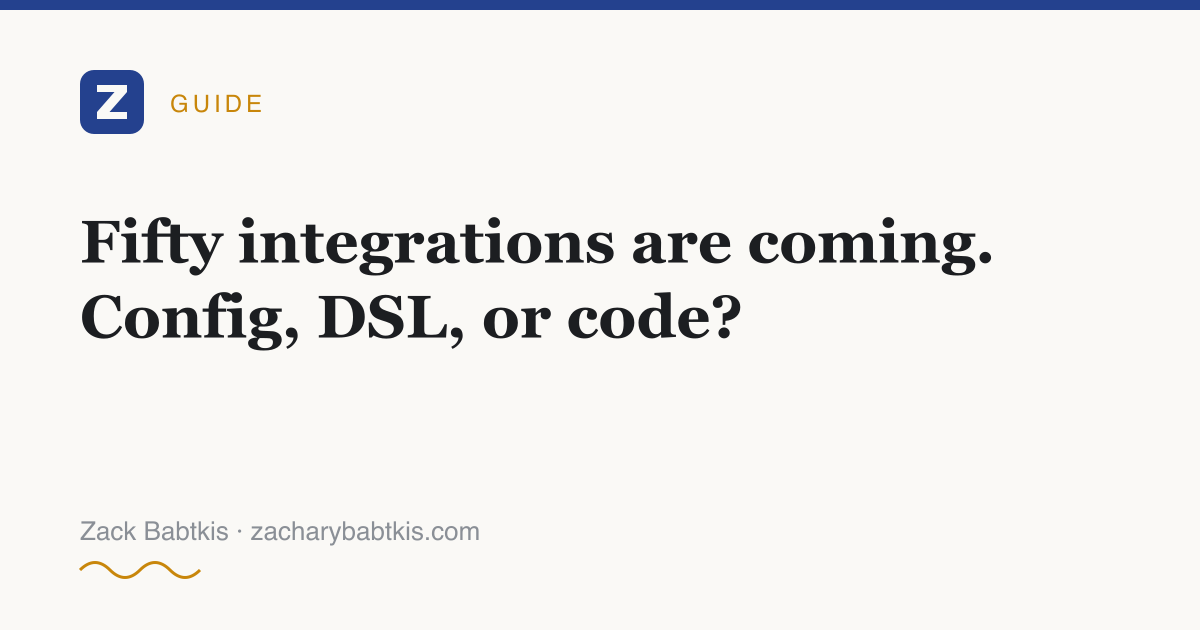
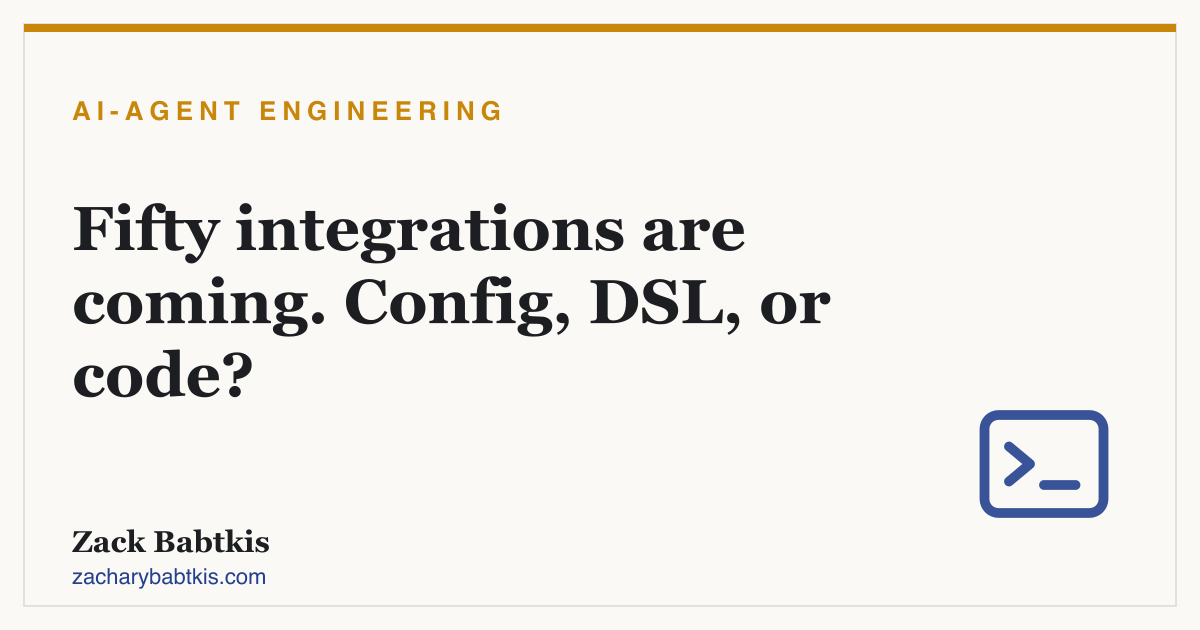
feat: branded headline cards + guide thumbnails + session-routing diagram

diff --git a/components/diagrams/session-routing.tsx b/components/diagrams/session-routing.tsx
@@ -1,0 +1,74 @@
+/**
+ * Hand-drawn SVG: why a second replica breaks MCP sessions. The session
+ * lives in replica A's memory; round-robin sends the follow-up to
+ * replica B, which has never heard of it.
+ */
+export function SessionRoutingDiagram() {
+  const ink = '#1c1e21';
+  const navy = '#24418e';
+  const amber = '#c8860a';
+  const rule = '#d8d4cb';
+  const mono = "ui-monospace, 'SF Mono', Menlo, monospace";
+
+  return (
+    <figure className="diagram">
+      <svg
+        viewBox="0 0 720 320"
+        role="img"
+        aria-label="Diagram: a client sends two requests through a load balancer. Request one reaches replica A, which holds the session. Request two is routed to replica B, which has no session, and fails with 404 session not found."
+      >
+        {/* Client */}
+        <rect x="20" y="120" width="130" height="80" rx="8" fill="none" stroke={ink} strokeWidth="1.5" />
+        <text x="85" y="155" textAnchor="middle" fontFamily={mono} fontSize="14" fill={ink}>MCP client</text>
+        <text x="85" y="177" textAnchor="middle" fontFamily={mono} fontSize="11" fill={navy}>session 4f2a</text>
+
+        {/* Load balancer */}
+        <rect x="270" y="120" width="150" height="80" rx="8" fill="none" stroke={ink} strokeWidth="1.5" />
+        <text x="345" y="150" textAnchor="middle" fontFamily={mono} fontSize="14" fill={ink}>load balancer</text>
+        <text x="345" y="172" textAnchor="middle" fontFamily={mono} fontSize="11" fill={ink} opacity="0.6">round-robin</text>
+
+        {/* Replica A */}
+        <rect x="540" y="30" width="160" height="90" rx="8" fill="none" stroke={navy} strokeWidth="1.5" />
+        <text x="620" y="58" textAnchor="middle" fontFamily={mono} fontSize="14" fill={ink}>replica A</text>
+        <text x="620" y="80" textAnchor="middle" fontFamily={mono} fontSize="11" fill={navy}>session 4f2a ✓</text>
+        <text x="620" y="98" textAnchor="middle" fontFamily={mono} fontSize="11" fill={navy}>open SSE stream</text>
+
+        {/* Replica B */}
+        <rect x="540" y="200" width="160" height="90" rx="8" fill="none" stroke={rule} strokeWidth="1.5" />
+        <text x="620" y="232" textAnchor="middle" fontFamily={mono} fontSize="14" fill={ink}>replica B</text>
+        <text x="620" y="254" textAnchor="middle" fontFamily={mono} fontSize="11" fill={ink} opacity="0.55">no session</text>
+
+        {/* client -> LB */}
+        <line x1="150" y1="160" x2="262" y2="160" stroke={ink} strokeWidth="1.5" markerEnd="url(#arrow-ink)" />
+
+        {/* LB -> A (request 1, ok) */}
+        <line x1="420" y1="140" x2="532" y2="80" stroke={navy} strokeWidth="1.5" markerEnd="url(#arrow-navy)" />
+        <text x="470" y="96" fontFamily={mono} fontSize="11" fill={navy}>request 1</text>
+
+        {/* LB -> B (request 2, fails) */}
+        <line x1="420" y1="180" x2="532" y2="240" stroke={amber} strokeWidth="1.5" strokeDasharray="6 4" markerEnd="url(#arrow-amber)" />
+        <text x="452" y="232" fontFamily={mono} fontSize="11" fill={amber}>request 2</text>
+
+        {/* failure label */}
+        <text x="620" y="312" textAnchor="middle" fontFamily={mono} fontSize="12" fill={amber}>404 &ldquo;session not found&rdquo;</text>
+
+        <defs>
+          <marker id="arrow-ink" viewBox="0 0 10 10" refX="9" refY="5" markerWidth="7" markerHeight="7" orient="auto-start-reverse">
+            <path d="M 0 0 L 10 5 L 0 10 z" fill={ink} />
+          </marker>
+          <marker id="arrow-navy" viewBox="0 0 10 10" refX="9" refY="5" markerWidth="7" markerHeight="7" orient="auto-start-reverse">
+            <path d="M 0 0 L 10 5 L 0 10 z" fill={navy} />
+          </marker>
+          <marker id="arrow-amber" viewBox="0 0 10 10" refX="9" refY="5" markerWidth="7" markerHeight="7" orient="auto-start-reverse">
+            <path d="M 0 0 L 10 5 L 0 10 z" fill={amber} />
+          </marker>
+        </defs>
+      </svg>
+      <figcaption>
+        The session lives in one process&rsquo;s memory. Round-robin
+        routing sends the follow-up request to a replica that has never
+        heard of it.
+      </figcaption>
+    </figure>
+  );
+}

diff --git a/app/globals.css b/app/globals.css
@@ -385,6 +385,75 @@ h3 {
   }
 }
 
+/* ---------- Inline diagrams ---------- */
+
+.diagram {
+  margin: var(--space-lg) 0;
+  padding: var(--space-md);
+  background: var(--paper-raised);
+  border: 1px solid var(--rule);
+  border-radius: var(--radius);
+}
+
+.diagram svg {
+  display: block;
+  width: 100%;
+  height: auto;
+}
+
+.diagram figcaption {
+  margin-top: var(--space-sm);
+  font-size: var(--text-sm);
+  color: var(--ink-soft);
+}
+
+/* ---------- Guide cards (guides index) ---------- */
+
+.guide-cards {
+  list-style: none;
+  display: grid;
+  grid-template-columns: repeat(auto-fill, minmax(19rem, 1fr));
+  gap: var(--space-md);
+  margin-top: var(--space-md);
+}
+
+.guide-cards a {
+  display: block;
+  background: var(--paper-raised);
+  border: 1px solid var(--rule);
+  border-radius: var(--radius);
+  overflow: hidden;
+  text-decoration: none;
+  color: var(--ink);
+  height: 100%;
+}
+
+.guide-cards a:hover {
+  border-color: var(--accent);
+}
+
+.guide-cards img {
+  display: block;
+  width: 100%;
+  height: auto;
+  border-bottom: 1px solid var(--rule);
+}
+
+.guide-cards strong {
+  display: block;
+  font-family: var(--font-display);
+  font-size: var(--text-md, 1.1rem);
+  line-height: 1.3;
+  padding: var(--space-sm) var(--space-md) 0;
+}
+
+.guide-cards span {
+  display: block;
+  font-size: var(--text-sm);
+  color: var(--ink-soft);
+  padding: 0.4rem var(--space-md) var(--space-md);
+}
+
 /* ---------- Consent banner (EEA/UK/CH only) ---------- */
 
 .consent-banner {

diff --git a/app/guides/page.tsx b/app/guides/page.tsx
@@ -30,12 +30,22 @@ export default function GuidesPage() {
         <section className="section" key={topic}>
           <div className="wrap">
             <h2>{TOPIC_LABELS[topic]}</h2>
-            <ul className="guide-list">
+            <ul className="guide-cards">
               {GUIDES.filter((guide: Guide) => guide.topic === topic).map(
                 (guide) => (
                   <li key={guide.slug}>
                     <a href={guide.slug}>
-                      {guide.title}
+                      {/* eslint-disable-next-line @next/next/no-img-element */}
+                      <img
+                        src={`/guide-thumbs/${guide.slug
+                          .replace(/^\/|\/$/g, '')
+                          .replace(/\//g, '--')}.png`}
+                        alt=""
+                        width={600}
+                        height={240}
+                        loading="lazy"
+                      />
+                      <strong>{guide.title}</strong>
                       <span>{guide.blurb}</span>
                     </a>
                   </li>

diff --git a/app/mcp-development/stateful-mcp-servers/page.tsx b/app/mcp-development/stateful-mcp-servers/page.tsx
@@ -1,5 +1,6 @@
 import type { Metadata } from 'next';
 import { ArticleLayout } from '@/components/article';
+import { SessionRoutingDiagram } from '@/components/diagrams/session-routing';
 
 export const metadata: Metadata = {
   title: 'Your MCP Server Is Stateful. Your Load Balancer Doesn’t Know That.',
@@ -92,6 +93,7 @@ export default function StatefulMcpServersPage() {
         retries, maybe initializes a new session, and your logs fill
         with session-not-found errors that correlate with nothing.
       </p>
+      <SessionRoutingDiagram />
       <p>
         The sharpest version of this involves elicitation, the MCP
         mechanism where the server pauses a tool call to ask the human a
